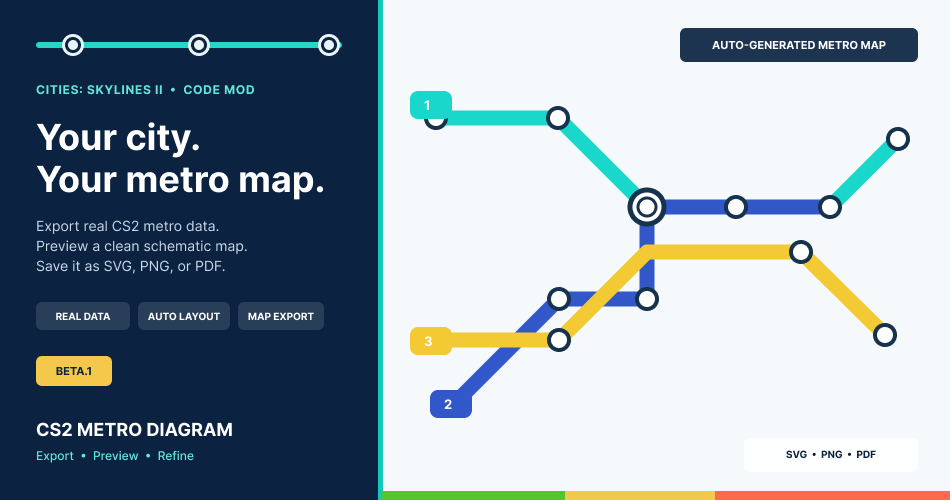
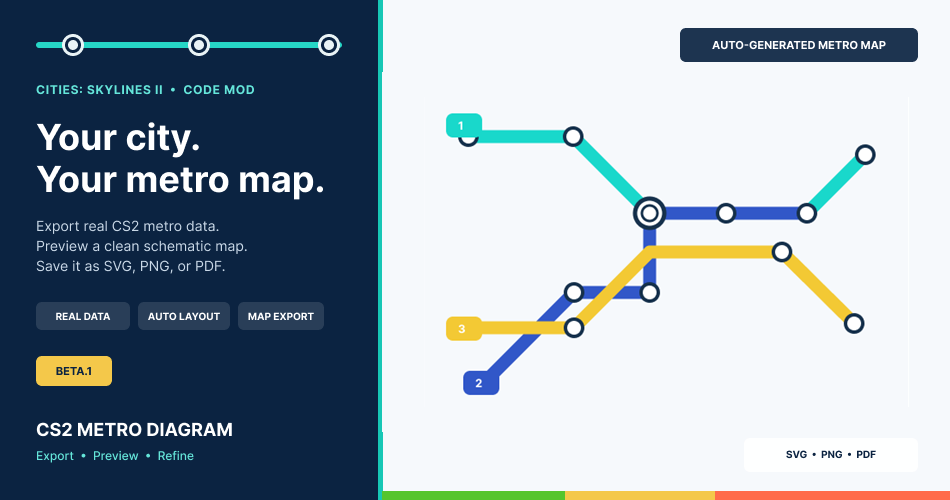
design: compact beta promo artwork

Changed region(s): [[0.4274, 0.18, 0.9768, 0.84]]

diff --git a/docs/DEV_NOTES.md b/docs/DEV_NOTES.md
@@ -17,6 +17,11 @@ Living operational notes only. History:
   messages. Its Beta.1 output does not overwrite Alpha.7 artifacts.
 - The Paradox Mods thumbnail source remains editable in Figma; its release badge
   and output-format copy were updated from Alpha.7 to Beta.1.
+- The published Beta.1 PNG uses a thumbnail-friendly abstract network instead
+  of a dense real-city screenshot. Its right-side illustration was compacted to
+  about 86% while retaining the required `950 x 500` canvas. The matching Figma
+  source still needs the final compact-width adjustment once the Starter MCP
+  call quota resets.
 - Paradox Mods `0.1.0-beta.1` was published successfully to public ModId
   `146643` after the generated Viewer and mod passed smoke testing.
 - Routine mod delivery now uses the subscribed Paradox Mods listing. Do not